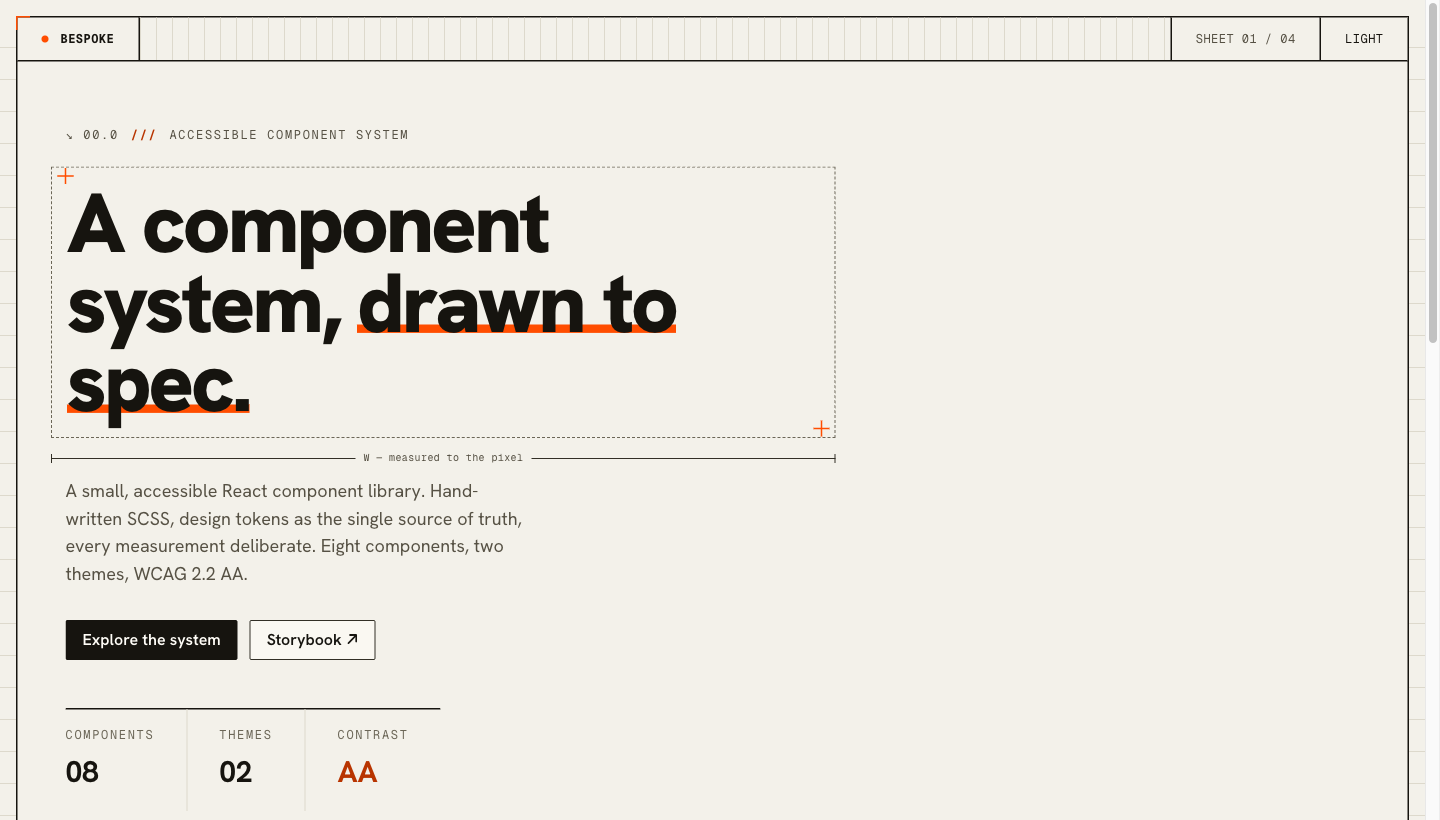
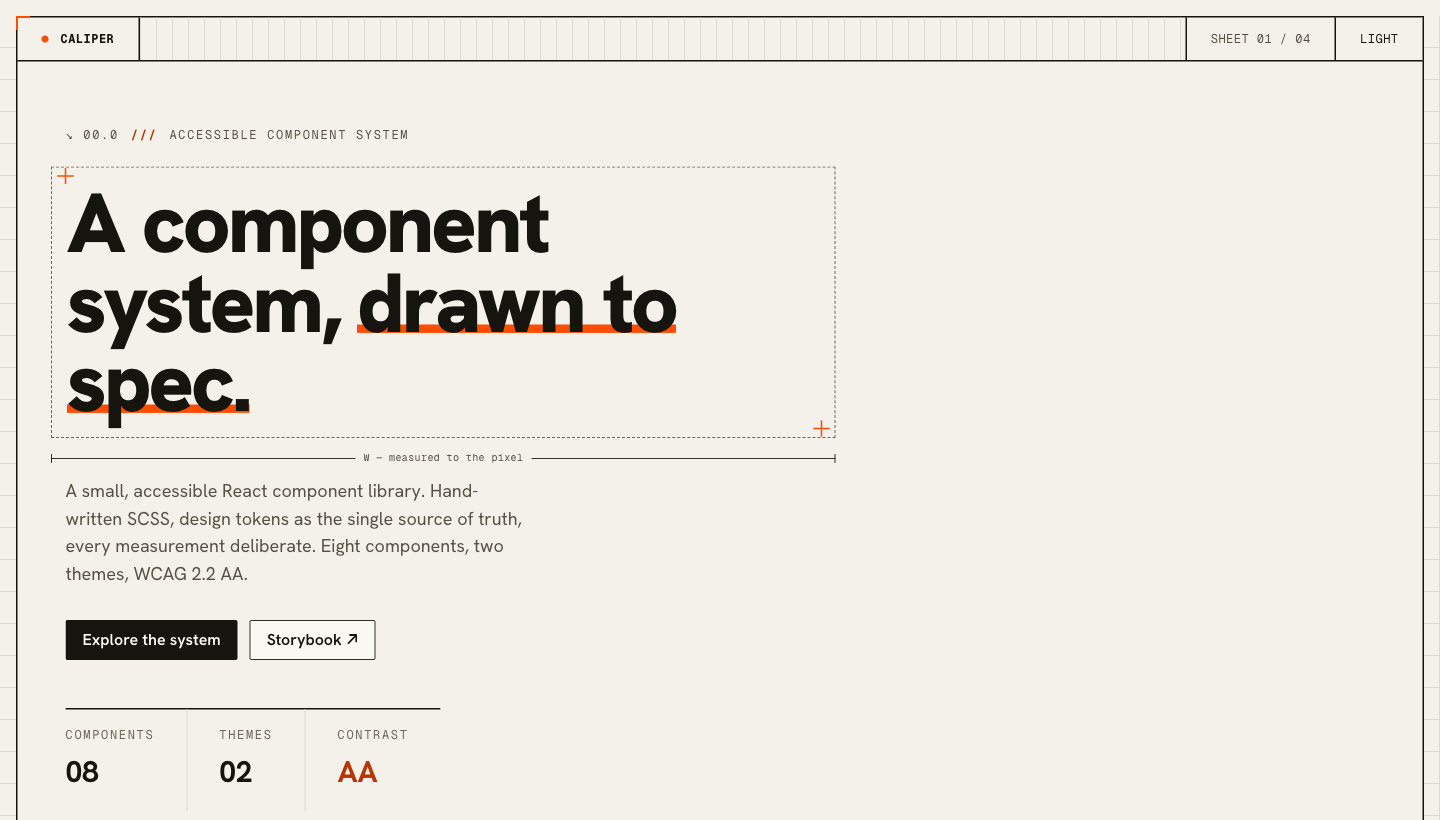
refactor: rename to Caliper UI (@user/caliper-ui)
"bespoke-css" implied a stylesheet; this is a React component library. Rename
to Caliper UI, leaning into the Spec Sheet identity (a precision instrument),
before the first publish so the package name is right from the start.

- Package -> @user/caliper-ui; repo/homepage/bugs URLs and the CSS
  artifact (lib/caliper.css) updated; exports key stays ./styles.css.
- Demo brand, Storybook title, page title, and Storybook intro -> Caliper UI.
- New favicon: a Spec Sheet crosshair (ink + signal orange), replacing the old
  violet bracket mark.
- Hero image regenerated with the Caliper rail.

Lint, format, contrast, app build, lib build, Storybook build, 47 interaction
tests, and 14 visual snapshots all pass.

Changed region(s): [[0.8125, 0.0, 1.0, 1.0], [0.0312, 0.0305, 0.0938, 0.061]]

diff --git a/src/App.tsx b/src/App.tsx
@@ -44,7 +44,7 @@ export function App() {
         <header className="spec__rail">
           <a className="spec__brand" href="#top">
             <span className="spec__dot" aria-hidden="true" />
-            Bespoke
+            Caliper
           </a>
           <div className="spec__ruler" aria-hidden="true" />
           <div className="spec__railmeta">
@@ -242,7 +242,7 @@ export function App() {
         </main>
 
         <footer className="spec__footer">
-          <span>Bespoke</span>
+          <span>Caliper</span>
           <span>An accessible component system</span>
           <span>WCAG 2.2 AA</span>
         </footer>

diff --git a/vite.lib.config.ts b/vite.lib.config.ts
@@ -13,7 +13,7 @@ import preserveDirectives from 'rollup-preserve-directives';
 //   "use client" directives survive (Button stays server-renderable, the
 //   interactive components are client). rollup-preserve-directives keeps the
 //   directive banners.
-// - This emits lib/bespoke.css with the tokens, reset, and component styles, but
+// - This emits lib/caliper.css with the tokens, reset, and component styles, but
 //   lib mode prunes the @fontsource @font-face rules; scripts/build-fonts.mjs
 //   inlines the webfonts and prepends them afterward.
 export default defineConfig({
@@ -63,7 +63,7 @@ export default defineConfig({
         entryFileNames: '[name].js',
         assetFileNames: (asset) =>
           asset.names?.[0]?.endsWith('.css')
-            ? 'bespoke.css'
+            ? 'caliper.css'
             : 'assets/[name][extname]',
       },
     },

diff --git a/.storybook/theme.ts b/.storybook/theme.ts
@@ -7,7 +7,7 @@ import { create } from 'storybook/theming';
 export default create({
   base: 'light',
 
-  brandTitle: 'Bespoke — design system',
+  brandTitle: 'Caliper UI — design system',
   brandTarget: '_self',
 
   colorPrimary: '#b83400',

diff --git a/index.html b/index.html
@@ -8,7 +8,7 @@
       name="description"
       content="An accessible React component library: token-driven, hand-written SCSS with BEM, WCAG 2.2 AA."
     />
-    <title>Bespoke CSS: accessible component foundation</title>
+    <title>Caliper UI: accessible component system</title>
   </head>
   <body>
     <div id="root"></div>

diff --git a/README.md b/README.md
@@ -1,10 +1,10 @@
-# Bespoke CSS
+# Caliper UI
 
-[![CI](https://github.com/ryancalacsan/bespoke-css/actions/workflows/ci.yml/badge.svg)](https://github.com/ryancalacsan/bespoke-css/actions/workflows/ci.yml)
+[![CI](https://github.com/ryancalacsan/caliper-ui/actions/workflows/ci.yml/badge.svg)](https://github.com/ryancalacsan/caliper-ui/actions/workflows/ci.yml)
 
-**[Live demo](https://bespoke-css.vercel.app)** · **[Component docs (Storybook)](https://bespoke-css.vercel.app/storybook/)**
+**[Live demo](https://caliper-ui.vercel.app)** · **[Component docs (Storybook)](https://caliper-ui.vercel.app/storybook/)**
 
-![The Bespoke demo landing, drawn as a technical spec sheet on warm paper: a ruler rail, a crop-mark frame, and a big grotesque headline reading "A component system, drawn to spec." dimensioned like an engineering drawing with crosshair marks and a width annotation, in ink with one construction-orange accent.](.github/assets/hero.png)
+![The Caliper UI demo landing, drawn as a technical spec sheet on warm paper: a ruler rail, a crop-mark frame, and a big grotesque headline reading "A component system, drawn to spec." dimensioned like an engineering drawing with crosshair marks and a width annotation, in ink with one construction-orange accent.](.github/assets/hero.png)
 
 A small, accessible React component library built to show design-system craft:
 hand-written SCSS with BEM, one source of truth for design tokens, and
@@ -15,7 +15,7 @@ It is meant to be read as much as run.
 ## Install
 
 ```bash
-npm install @ryancalacsan/bespoke-css
+npm install @ryancalacsan/caliper-ui
 ```
 
 React 18 or newer is a peer dependency (your app provides it). The package ships
@@ -26,8 +26,8 @@ ESM with types and is safe to use in React Server Components.
 Import the stylesheet once at your app root, then use the components:
 
 ```tsx
-import '@ryancalacsan/bespoke-css/styles.css';
-import { Button } from '@ryancalacsan/bespoke-css';
+import '@ryancalacsan/caliper-ui/styles.css';
+import { Button } from '@ryancalacsan/caliper-ui';
 
 export function Example() {
   return <Button onClick={() => alert('hi')}>Save changes</Button>;
@@ -37,7 +37,7 @@ export function Example() {
 Themes switch by a `data-theme` attribute on `<html>` (`"light"` or `"dark"`);
 with no attribute set, the OS `prefers-color-scheme` decides. Want only the
 tokens (the CSS custom properties), without component styles? Import
-`@ryancalacsan/bespoke-css/tokens.css` instead.
+`@ryancalacsan/caliper-ui/tokens.css` instead.
 
 ### Next.js App Router
 
@@ -47,7 +47,7 @@ components (`Modal`, `Select`, `Tabs`, `Tooltip`, `Checkbox`, `RadioGroup`,
 
 ```tsx
 // app/layout.tsx
-import '@ryancalacsan/bespoke-css/styles.css';
+import '@ryancalacsan/caliper-ui/styles.css';
 
 export default function RootLayout({
   children,
@@ -220,8 +220,8 @@ URL. One build produces both: the `vercel-build` script builds the demo, then
 builds Storybook into `dist/storybook`, so the landing page serves at the root
 and the component docs at `/storybook`.
 
-- Demo: <https://bespoke-css.vercel.app>
-- Storybook: <https://bespoke-css.vercel.app/storybook/>
+- Demo: <https://caliper-ui.vercel.app>
+- Storybook: <https://caliper-ui.vercel.app/storybook/>
 
 ## Project structure
 